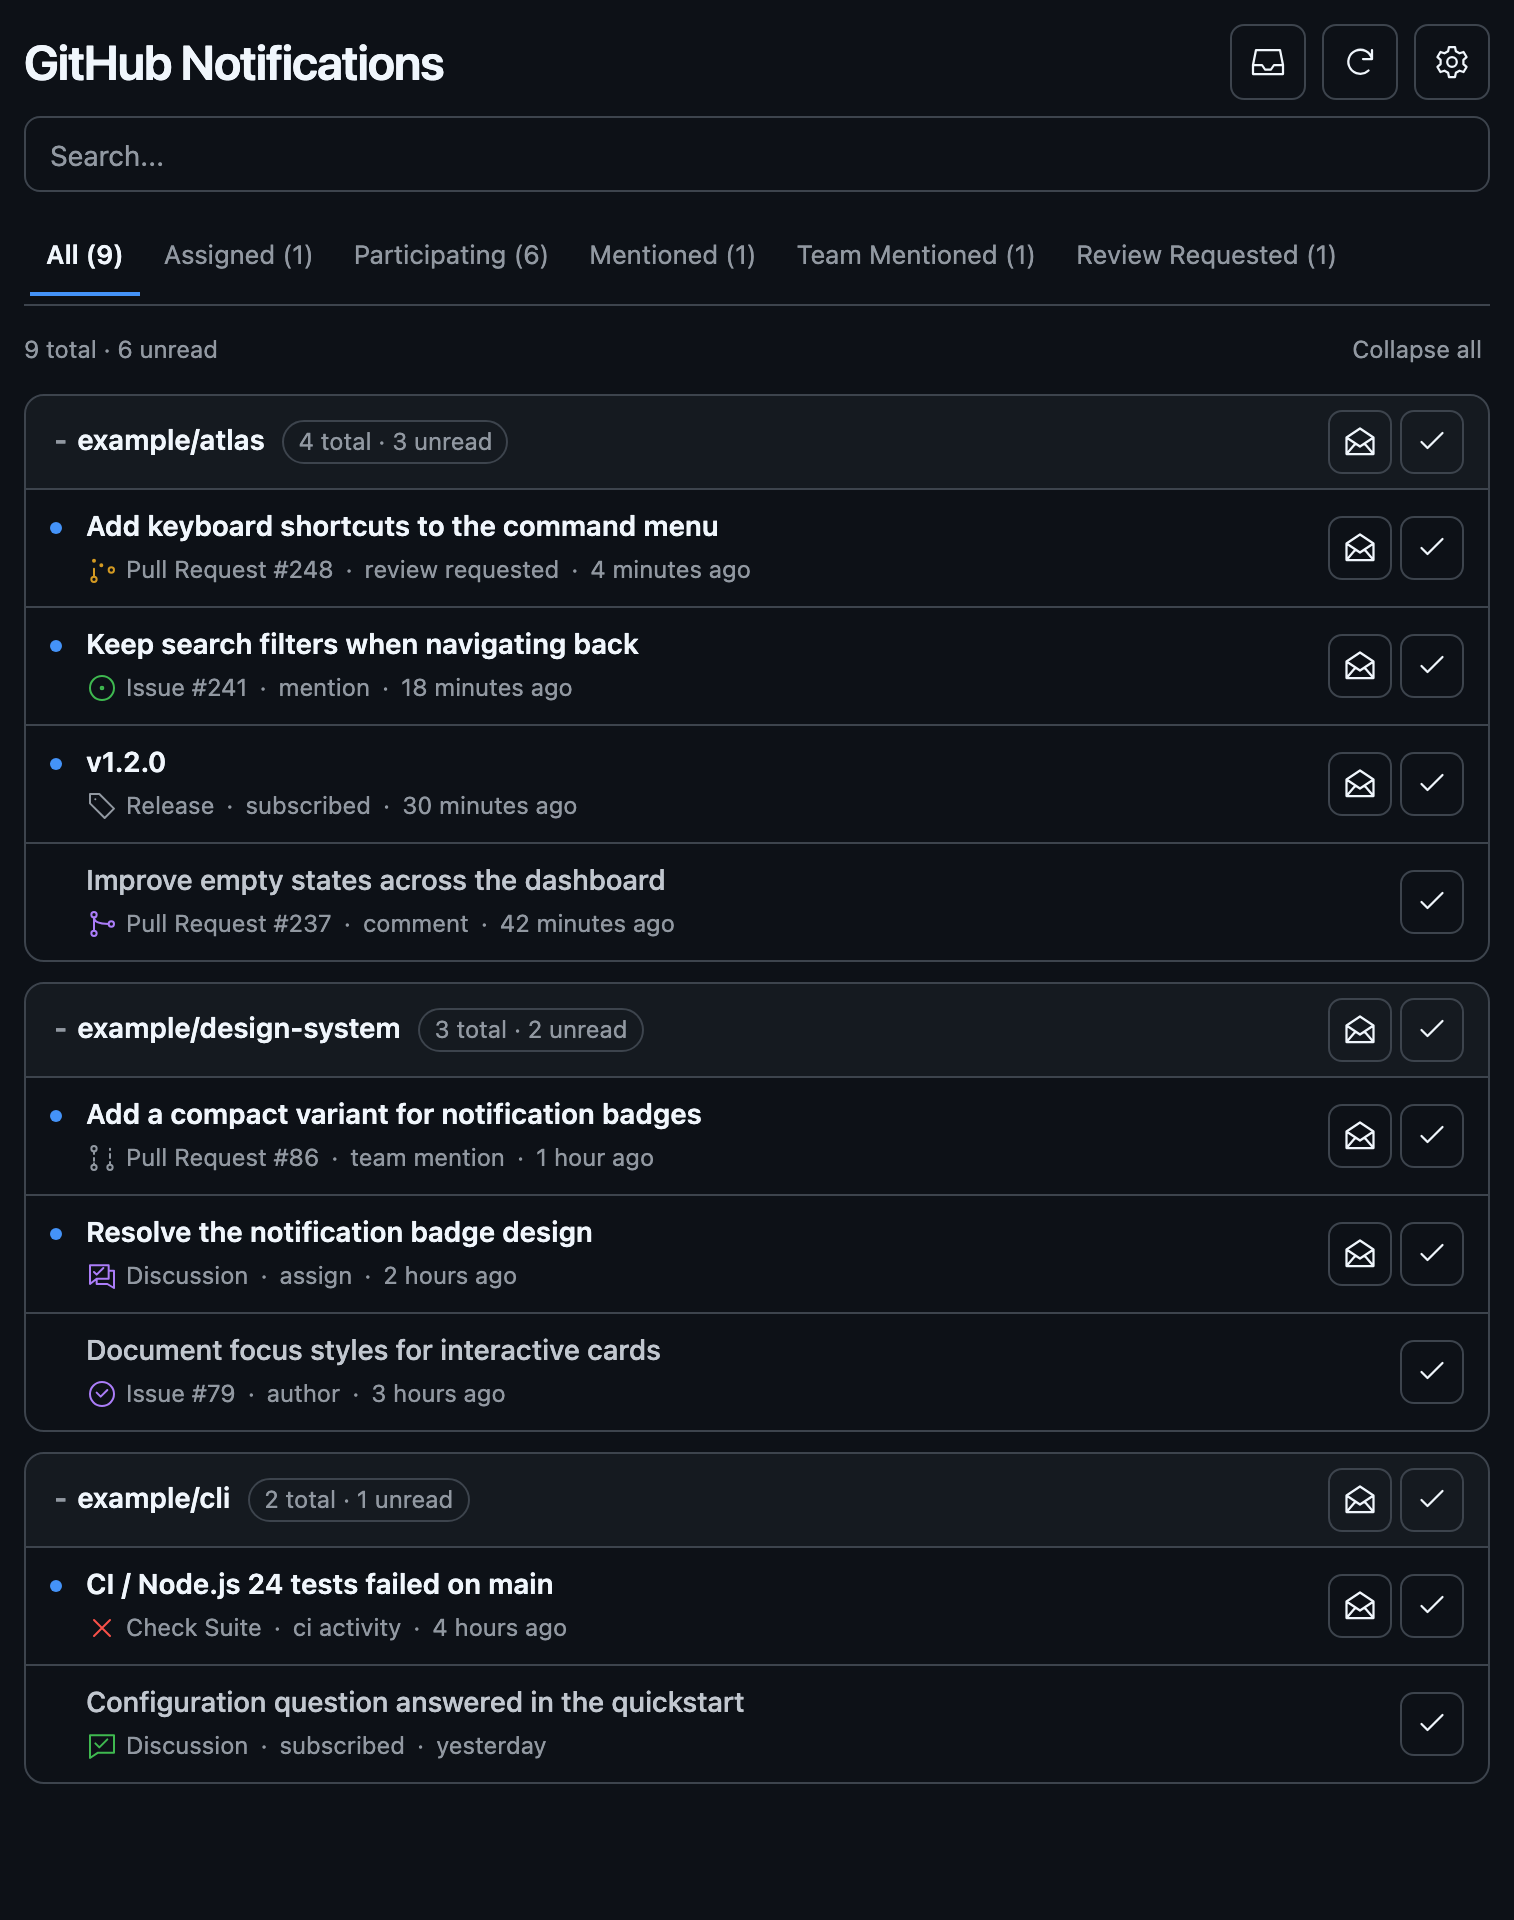
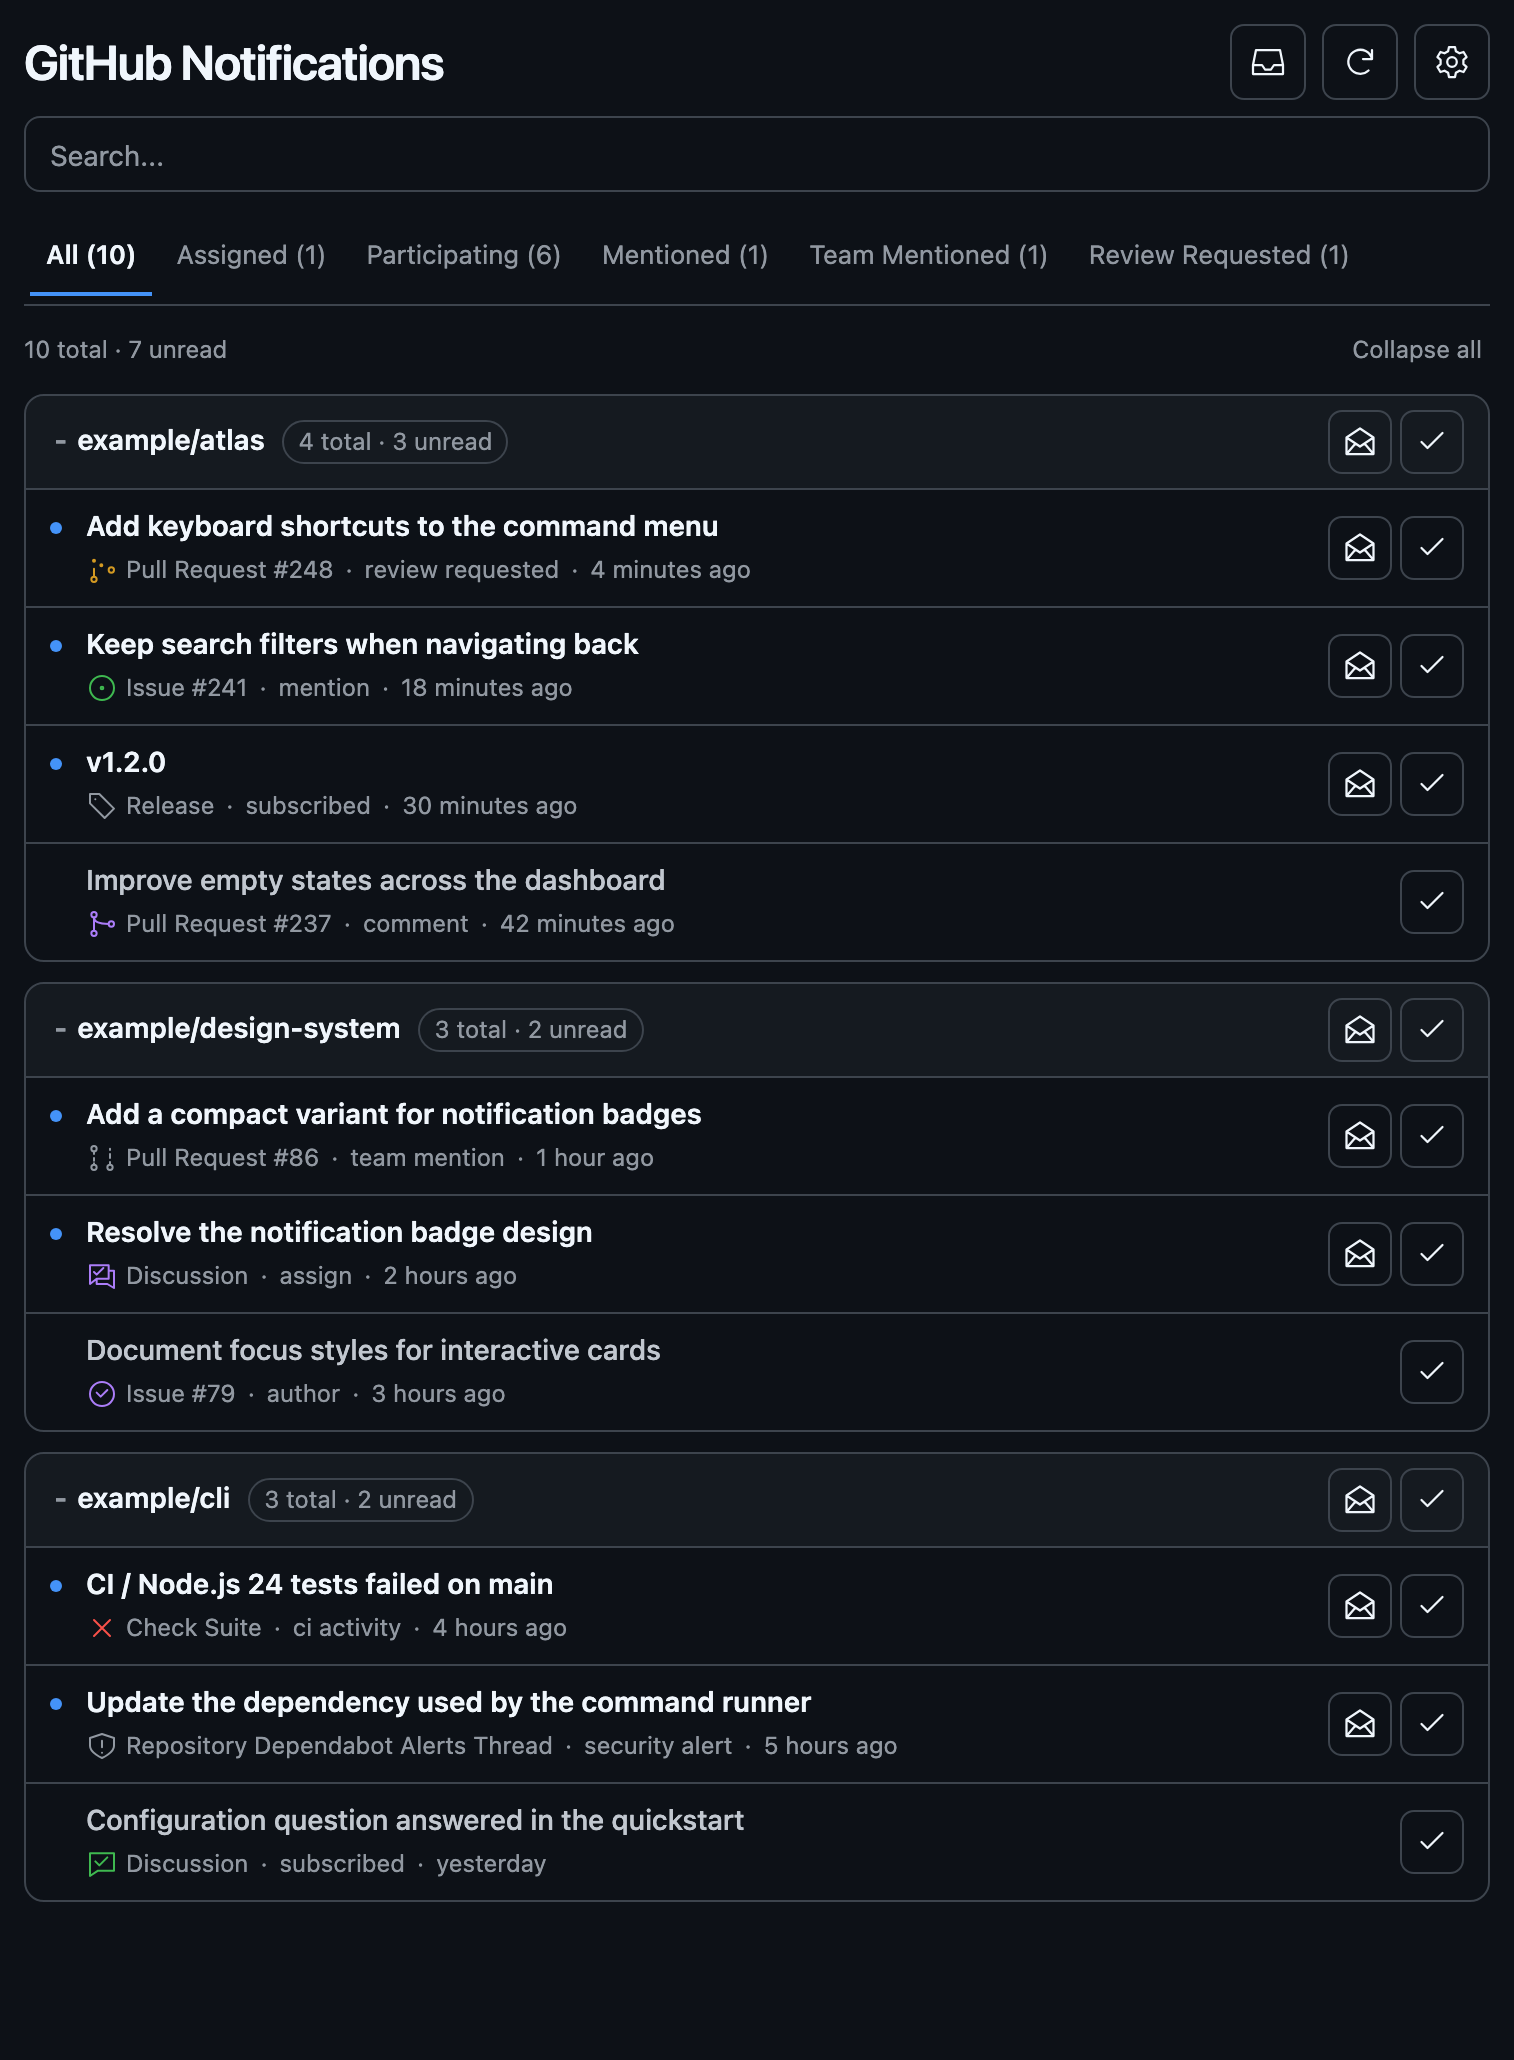
Fix notification type wrapping in narrow panels (#78)

diff --git a/src/styles.css b/src/styles.css
@@ -898,14 +898,19 @@ a:hover {
 .notification-subject {
   display: inline-flex;
   align-items: baseline;
-  flex-wrap: wrap;
   gap: 4px;
+}
+
+.notification-type {
+  min-width: 0;
 }
 
 .subject-icon {
   display: inline-flex;
-  align-self: center;
+  align-self: flex-start;
+  align-items: center;
   flex-shrink: 0;
+  height: 1lh;
 }
 
 .subject-open .subject-icon,

diff --git a/README.md b/README.md
@@ -12,7 +12,7 @@ showing read and unread inbox items; choose **Unread only** to narrow the view. 
 stay hidden in both views. Search, mark rows
 or groups as read or done, and opt into desktop notifications or auto-open.
 
-![GitHub Notifications canvas with a compact title toolbar, full-width search, and attention tabs above nine synthetic notifications, six unread, across three example repositories with pull request status icons including a yellow merge-queue icon, distinct purple closed-discussion and green answered-discussion icons, a release tag, a failed check run, and read/done controls](docs/images/github-notifications.png)
+![GitHub Notifications canvas with a compact title toolbar, full-width search, and attention tabs above ten synthetic notifications, seven unread, across three example repositories with pull request status icons including a yellow merge-queue icon, distinct purple closed-discussion and green answered-discussion icons, a release tag, a failed check run, a security alert, and read/done controls](docs/images/github-notifications.png)
 
 ## Prerequisites
 

diff --git a/docs/usage.md b/docs/usage.md
@@ -18,6 +18,8 @@ panels without shrinking the utility buttons.
 Search by title, issue/PR number, or repository. Each row shows its type, number
 when available, notification reason, and last-updated time.
 The repository is also shown when it is not already in the group heading.
+Long type labels wrap beside their icon on narrow panels, keeping the icon
+aligned with the first line.
 Visible row metadata never includes custom destination hints such as
 **Open repository releases** or **Open GitHub inbox**. Fallback destinations
 remain available to screen readers without adding visible metadata.
